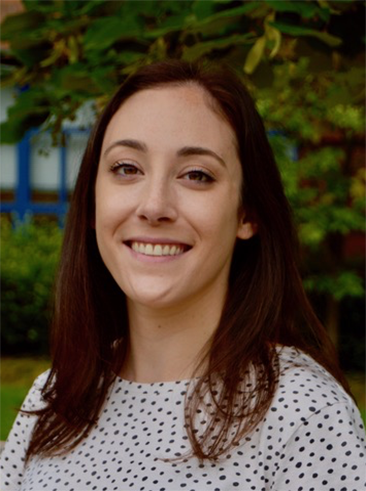
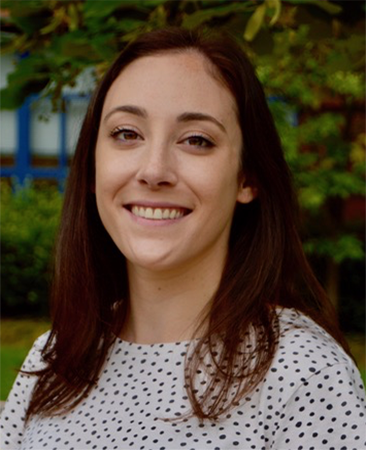
Adjusted size of photos; added Steph's blurb

diff --git a/index.html b/index.html
@@ -435,29 +435,37 @@ div.tocify {
 </div>
 <div id="about-us" class="section level1">
 <h1>About us</h1>
-<p><strong>Cameron S. Kay</strong> <a href="https://twitter.com/cameronskay"> <i class="fab fa-twitter fa-1x"></i></a> <a href="https://github.com/camkay"> <i class="fab fa-github fa-1x"></i></a> <a href="https://www.researchgate.net/profile/Cameron_Kay6"> <i class="fab fa-researchgate fa-1x"></i></a> <a href="mailto:ckay@uoregon.edu"> <i class="fas fa-envelope fa-1x"></i></a></p>
-<p><img src="images/Cam.png" width="10%" style="float:left;padding-right:15px" /></p>
+<p><strong>Cameron S. Kay, M.S., M.A.</strong></p>
+<p><img src="images/Cam.png" width="20%" style="float:left;padding-right:40px" /></p>
 <p>Cameron is a doctoral candidate studying personality and social psychology at the University of Oregon. He is interested in incorporating new technologies and methodologies into the study of personality. He is the creator and maintainer of the R packages <a href="https://github.com/camkay/panoply">panoply</a> and <a href="https://github.com/camkay/iccImpact">iccImpact</a>, as well as the <a href="https://github.com/camkay/outRun">outRun</a> RStudio Editor Theme.</p>
+<p><a href="https://twitter.com/cameronskay"> <i class="fab fa-twitter fa-1x"></i></a> <a href="https://github.com/camkay"> <i class="fab fa-github fa-1x"></i></a> <a href="https://www.researchgate.net/profile/Cameron_Kay6"> <i class="fab fa-researchgate fa-1x"></i></a> <a href="mailto:ckay@uoregon.edu"> <i class="fas fa-envelope fa-1x"></i></a></p>
 <div style="clear: both;">
 
 </div>
 <p><span class="math inline">\(~\)</span></p>
-<p><strong>Lea Frank</strong> <a href="https://twitter.com/lurrfursure?lang=en"> <i class="fab fa-twitter fa-1x"></i></a> <a href="https://github.com/lfrank14"> <i class="fab fa-github fa-1x"></i></a> <a href="https://www.researchgate.net/profile/Lea_Frank"> <i class="fab fa-researchgate fa-1x"></i></a> <a href="mailto:lfrank@uoregon.edu"> <i class="fas fa-envelope fa-1x"></i></a></p>
-<p><img src="images/Lea.png" width="10%" style="float:left;padding-right:15px" /></p>
+<p><strong>Lea Frank, M.S.</strong></p>
+<p><img src="images/Lea.png" width="20%" style="float:left;padding-right:40px" /></p>
 <p>Lea is a doctoral student studying cognitive neuroscience at the University of Oregon. Her research examines how memories are used to help guide novel decisions. She is interested in combining machine learning and neuroimaging methods to understand the neural processes underlying memory-guided decisions.</p>
+<p><a href="https://twitter.com/lurrfursure?lang=en"> <i class="fab fa-twitter fa-1x"></i></a> <a href="https://github.com/lfrank14"> <i class="fab fa-github fa-1x"></i></a> <a href="https://www.researchgate.net/profile/Lea_Frank"> <i class="fab fa-researchgate fa-1x"></i></a> <a href="mailto:lfrank@uoregon.edu"> <i class="fas fa-envelope fa-1x"></i></a></p>
 <div style="clear: both;">
 
 </div>
 <p><span class="math inline">\(~\)</span></p>
-<p><strong>Ashley L. Miller</strong> <a href="https://github.com/AshLynnMiller"> <i class="fab fa-github fa-1x"></i></a> <a href="https://www.researchgate.net/profile/Ashley_Miller52"> <i class="fab fa-researchgate fa-1x"></i></a> <a href="mailto:amiller8@uoregon.edu"> <i class="fas fa-envelope fa-1x"></i></a></p>
-<p><img src="images/Ash.png" width="10%" style="float:left;padding-right:15px" /></p>
+<p><strong>Ashley L. Miller, M.S.</strong></p>
+<p><img src="images/Ash.png" width="20%" style="float:left;padding-right:40px" /></p>
 <p>Ashley is a doctoral candidate studying memory and attention processes. Specifically, Ashley’s research seeks to identify sources of limitations in learning abilities–and cognitive abilities more broadly–by focusing on how individuals control attention in a goal directed manner. Ashley leverages behavioral and physiological techniques (pupillometry and eye-tracking) to address these questions.</p>
+<p><a href="https://github.com/AshLynnMiller"> <i class="fab fa-github fa-1x"></i></a> <a href="https://www.researchgate.net/profile/Ashley_Miller52"> <i class="fab fa-researchgate fa-1x"></i></a> <a href="mailto:amiller8@uoregon.edu"> <i class="fas fa-envelope fa-1x"></i></a></p>
 <div style="clear: both;">
 
 </div>
 <p><span class="math inline">\(~\)</span></p>
-<p><strong>Stephanie Gluck</strong> <a href="https://github.com/s-gluck"> <i class="fab fa-github fa-1x"></i></a> <a href="https://www.researchgate.net/profile/Stephanie_Chenwu_Gluck"> <i class="fab fa-researchgate fa-1x"></i></a> <a href="mailto:sgluck@uoregon.edu"> <i class="fas fa-envelope fa-1x"></i></a></p>
-<p>BLURB GOES HEREEEEEEEE.</p>
+<p><strong>Stephanie Gluck, M.A.</strong></p>
+<p><img src="images/Steph.png" width="20%" style="float:left;padding-right:40px" /></p>
+<p>Stephanie is a doctoral student studying developmental psychology at the University of Oregon. Her research addresses how children become socially aware of others’ thoughts, intentions and emotions – a crucial ability for success in the social world – along with the underlying social and cognitive mechanisms that influence such development.</p>
+<p><a href="https://github.com/s-gluck"> <i class="fab fa-github fa-1x"></i></a> <a href="https://www.researchgate.net/profile/Stephanie_Chenwu_Gluck"> <i class="fab fa-researchgate fa-1x"></i></a> <a href="mailto:sgluck@uoregon.edu"> <i class="fas fa-envelope fa-1x"></i></a></p>
+<div style="clear: both;">
+
+</div>
 <p><span class="math inline">\(~\)</span></p>
 <div id="land-acknowledgement" class="section level2">
 <h2>Land Acknowledgement</h2>
